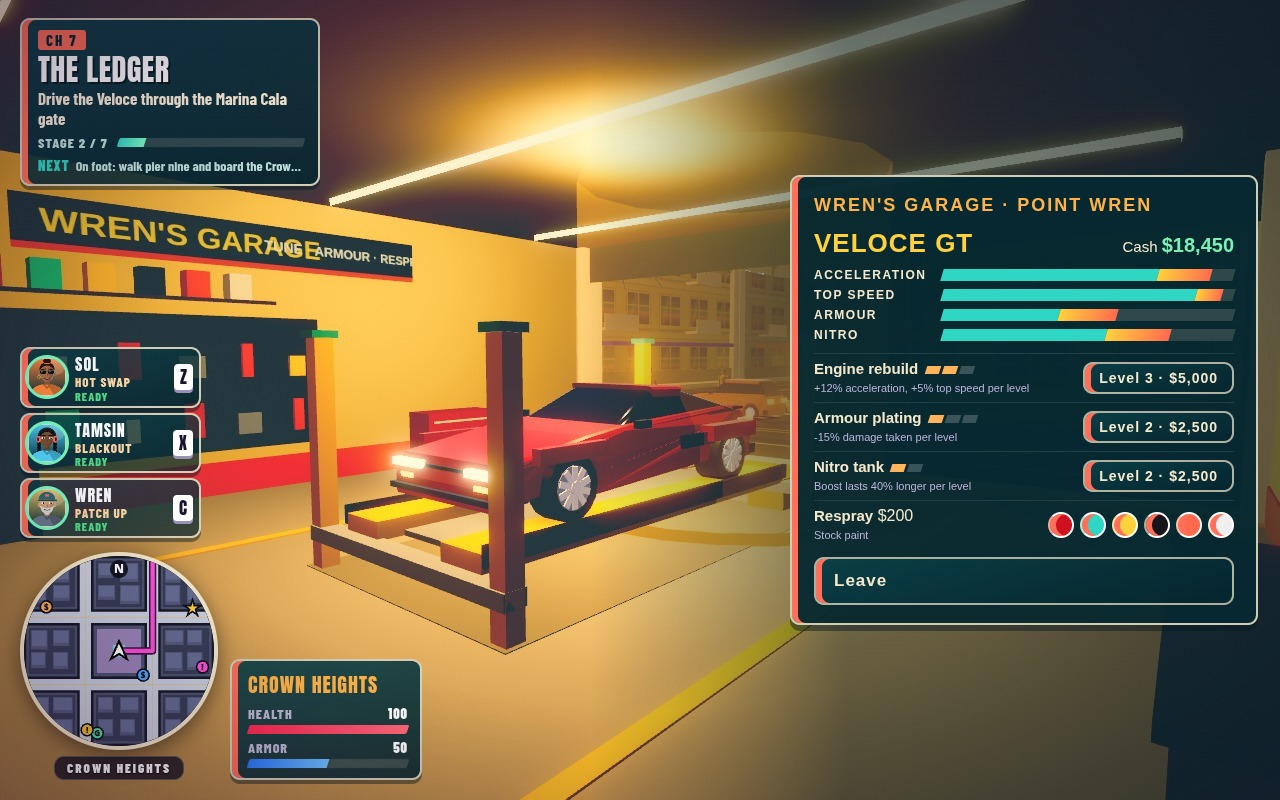
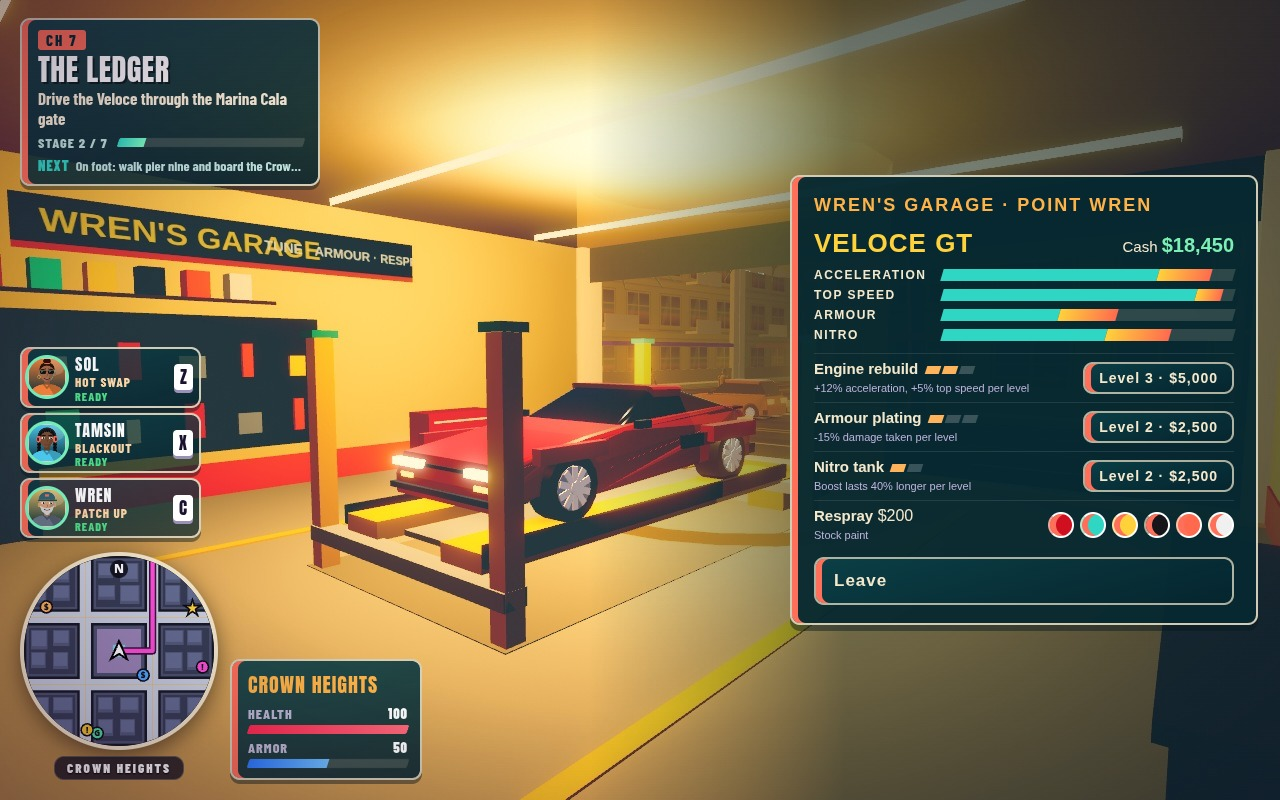
Garage interior: lighter ceiling with a warm bounce, stronger work lamp; garage shot exposure and bloom balanced with the rest of the sheet

Changed region(s): [[0.0, 0.0, 1.0, 0.3125], [0.2812, 0.5312, 0.4062, 0.625], [0.1875, 0.5, 0.2188, 0.5312]]

diff --git a/game/src/world/wrenGarage.js b/game/src/world/wrenGarage.js
@@ -51,9 +51,9 @@ export function buildWrenGarage(scene) {
   const m = new THREE.Mesh(toGeometry(B), new THREE.MeshLambertMaterial({ vertexColors: true })); m.castShadow = m.receiveShadow = true; scene.add(m);
   scene.add(new THREE.Mesh(toGeometry(L), new THREE.MeshBasicMaterial({ color: new THREE.Color(2.4, 2.1, 1.7) })));
   // the ceiling seen from inside (box tops only face up), and the shop's name painted again high on the tool wall
-  const ceil = new THREE.Mesh(new THREE.PlaneGeometry(w, d).rotateX(Math.PI / 2), new THREE.MeshLambertMaterial({ color: 0x8a8070 })); ceil.position.set(cx, h - 0.02, (z0 + z1) / 2); scene.add(ceil);
+  const ceil = new THREE.Mesh(new THREE.PlaneGeometry(w, d).rotateX(Math.PI / 2), new THREE.MeshLambertMaterial({ color: 0xd8cbb4, emissive: 0x302418 })); ceil.position.set(cx, h - 0.02, (z0 + z1) / 2); scene.add(ceil);
   const inner = new THREE.Mesh(new THREE.PlaneGeometry(6, 0.75), new THREE.MeshBasicMaterial({ map: signTexture() })); inner.rotation.y = -Math.PI / 2; inner.position.set(x1 - 0.42, 4.5, z0 + 6); scene.add(inner);
-  const lamp = new THREE.PointLight(0xffd2a0, 55, 17, 1.3); lamp.position.set(cx, h - 1, (z0 + z1) / 2 + 1); scene.add(lamp); G.garageLamp = lamp;
+  const lamp = new THREE.PointLight(0xffd2a0, 75, 18, 1.3); lamp.position.set(cx, h - 1, (z0 + z1) / 2 + 1); scene.add(lamp); G.garageLamp = lamp;
   const sign = new THREE.Mesh(new THREE.PlaneGeometry(w + 0.6, (w + 0.6) / 8), new THREE.MeshBasicMaterial({ map: signTexture() })); sign.position.set(cx, h + 0.35 + (w + 0.6) / 16, z1 + 0.42); scene.add(sign);
   // walls are solid for cars and people; the front stays open
   addBox({ x0, x1, z0: z0 - 0.2, z1: z0 + 0.6, h }); addBox({ x0: x0 - 0.2, x1: x0 + 0.6, z0, z1, h }); addBox({ x0: x1 - 0.6, x1: x1 + 0.2, z0, z1, h });

diff --git a/game/src/shots/screenshotScenes.js b/game/src/shots/screenshotScenes.js
@@ -182,7 +182,7 @@ function garage(api) {
   const tc = (key, x, dir, col) => { const c = placeTraffic('x', 3, x, dir, key, 'traffic', col); c.mesh.position.set(c.x, 0, c.z); c.mesh.rotation.y = c.heading; return c; };
   tc('tidebus', WORKSHOP.x1 + 16, -1); tc('pico', WORKSHOP.x1 + 2, 1, 0xff8a3d); tc('tupelo', WORKSHOP.x1 + 34, 1, 0xf6c21c); tc('hawke', WORKSHOP.x1 + 52, -1, 0x2fd6c4);
   [[WORKSHOP.x1 + 6, 1, 1], [WORKSHOP.x1 + 11, 1, -1], [WORKSHOP.x1 + 22, 1, 1], [WORKSHOP.x1 + 30, -1, -1]].forEach(([x, sd, d], i) => { const a = spawnPed('x', 3, x, sd, d); animateWalk(a.mesh, i * 1.7, 0.6, false); });
-  api.showHud(true); G.hooks.openGarage(); G.exposure = 1.2; if (G.post) Object.assign(G.post.params, { bloom: 0.4, threshold: 1.15, vignette: 0.22 });
+  api.showHud(true); G.hooks.openGarage(); G.exposure = 1.1; if (G.post) Object.assign(G.post.params, { bloom: 0.28, threshold: 1.35, vignette: 0.18 });
   finish(api); }
 // staging numbers for the boat run (start x, z, heading, speed; steps of 1/60 s; when the hard turn starts; camera offsets in the boat's frame)
 const SHOT2 = { start: [414, -204, 0.6], v0: 26, steps: 100, turnAt: 70, steer: -0.6, launches: [[409, -226, 0.5], [426, -236, 0.4], [398, -246, 0.55]],
